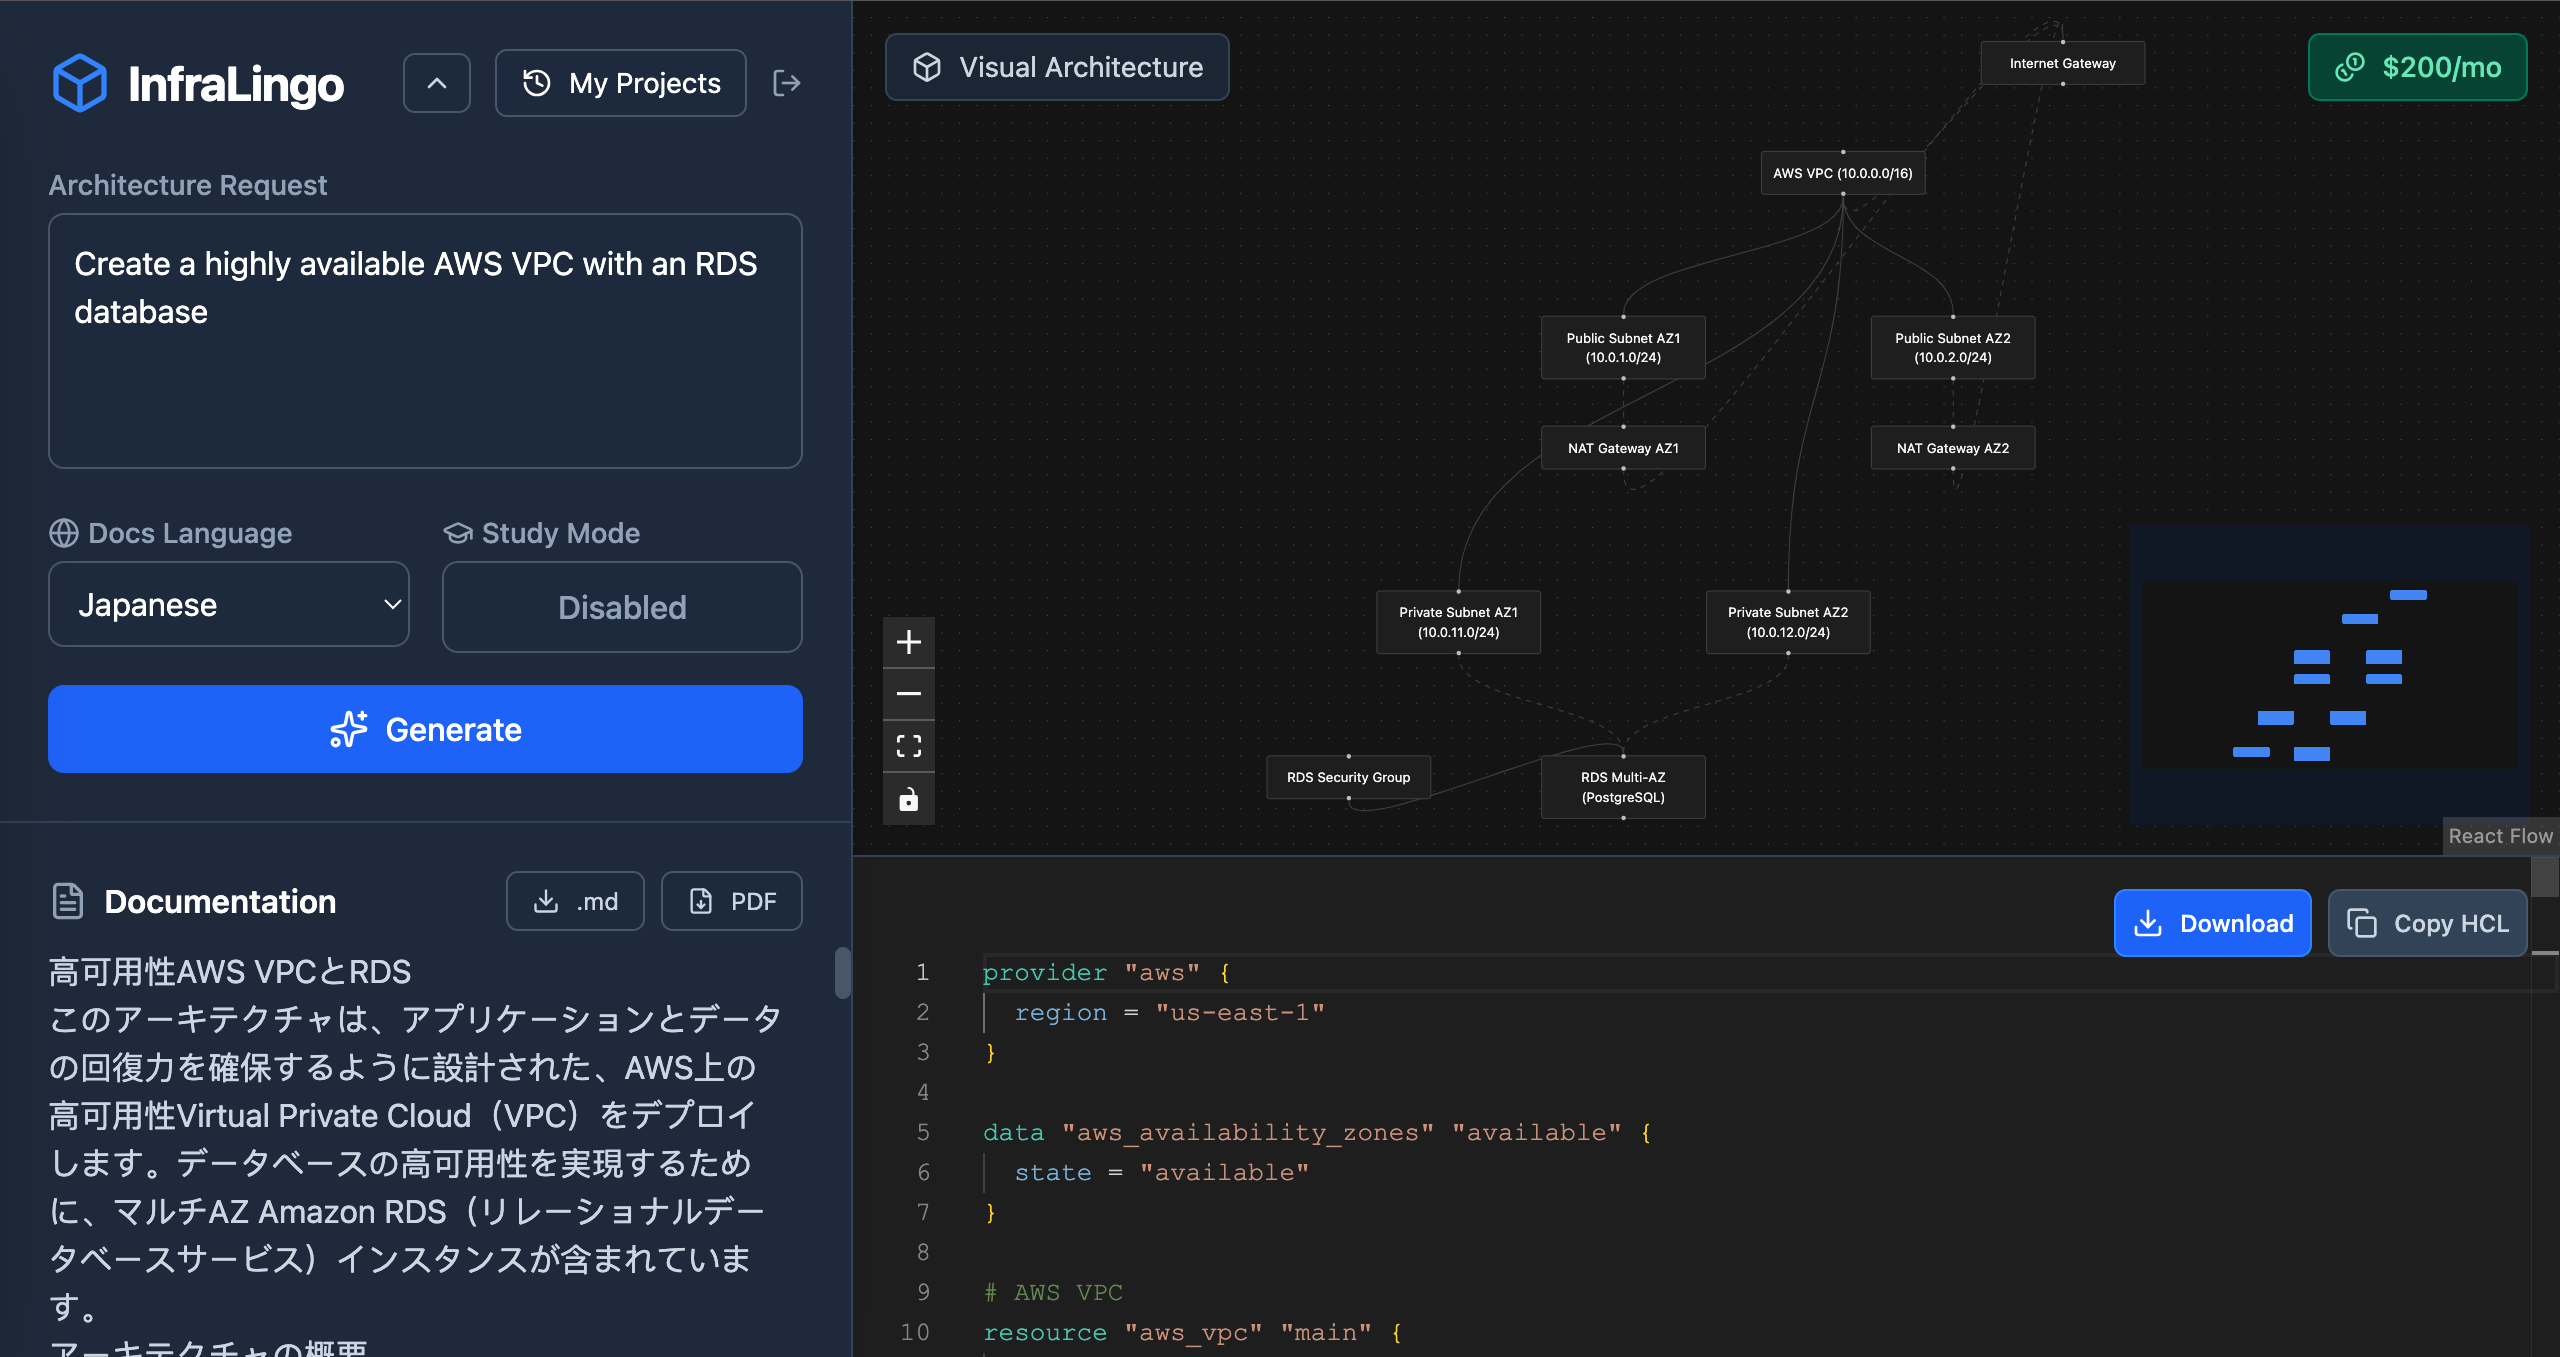
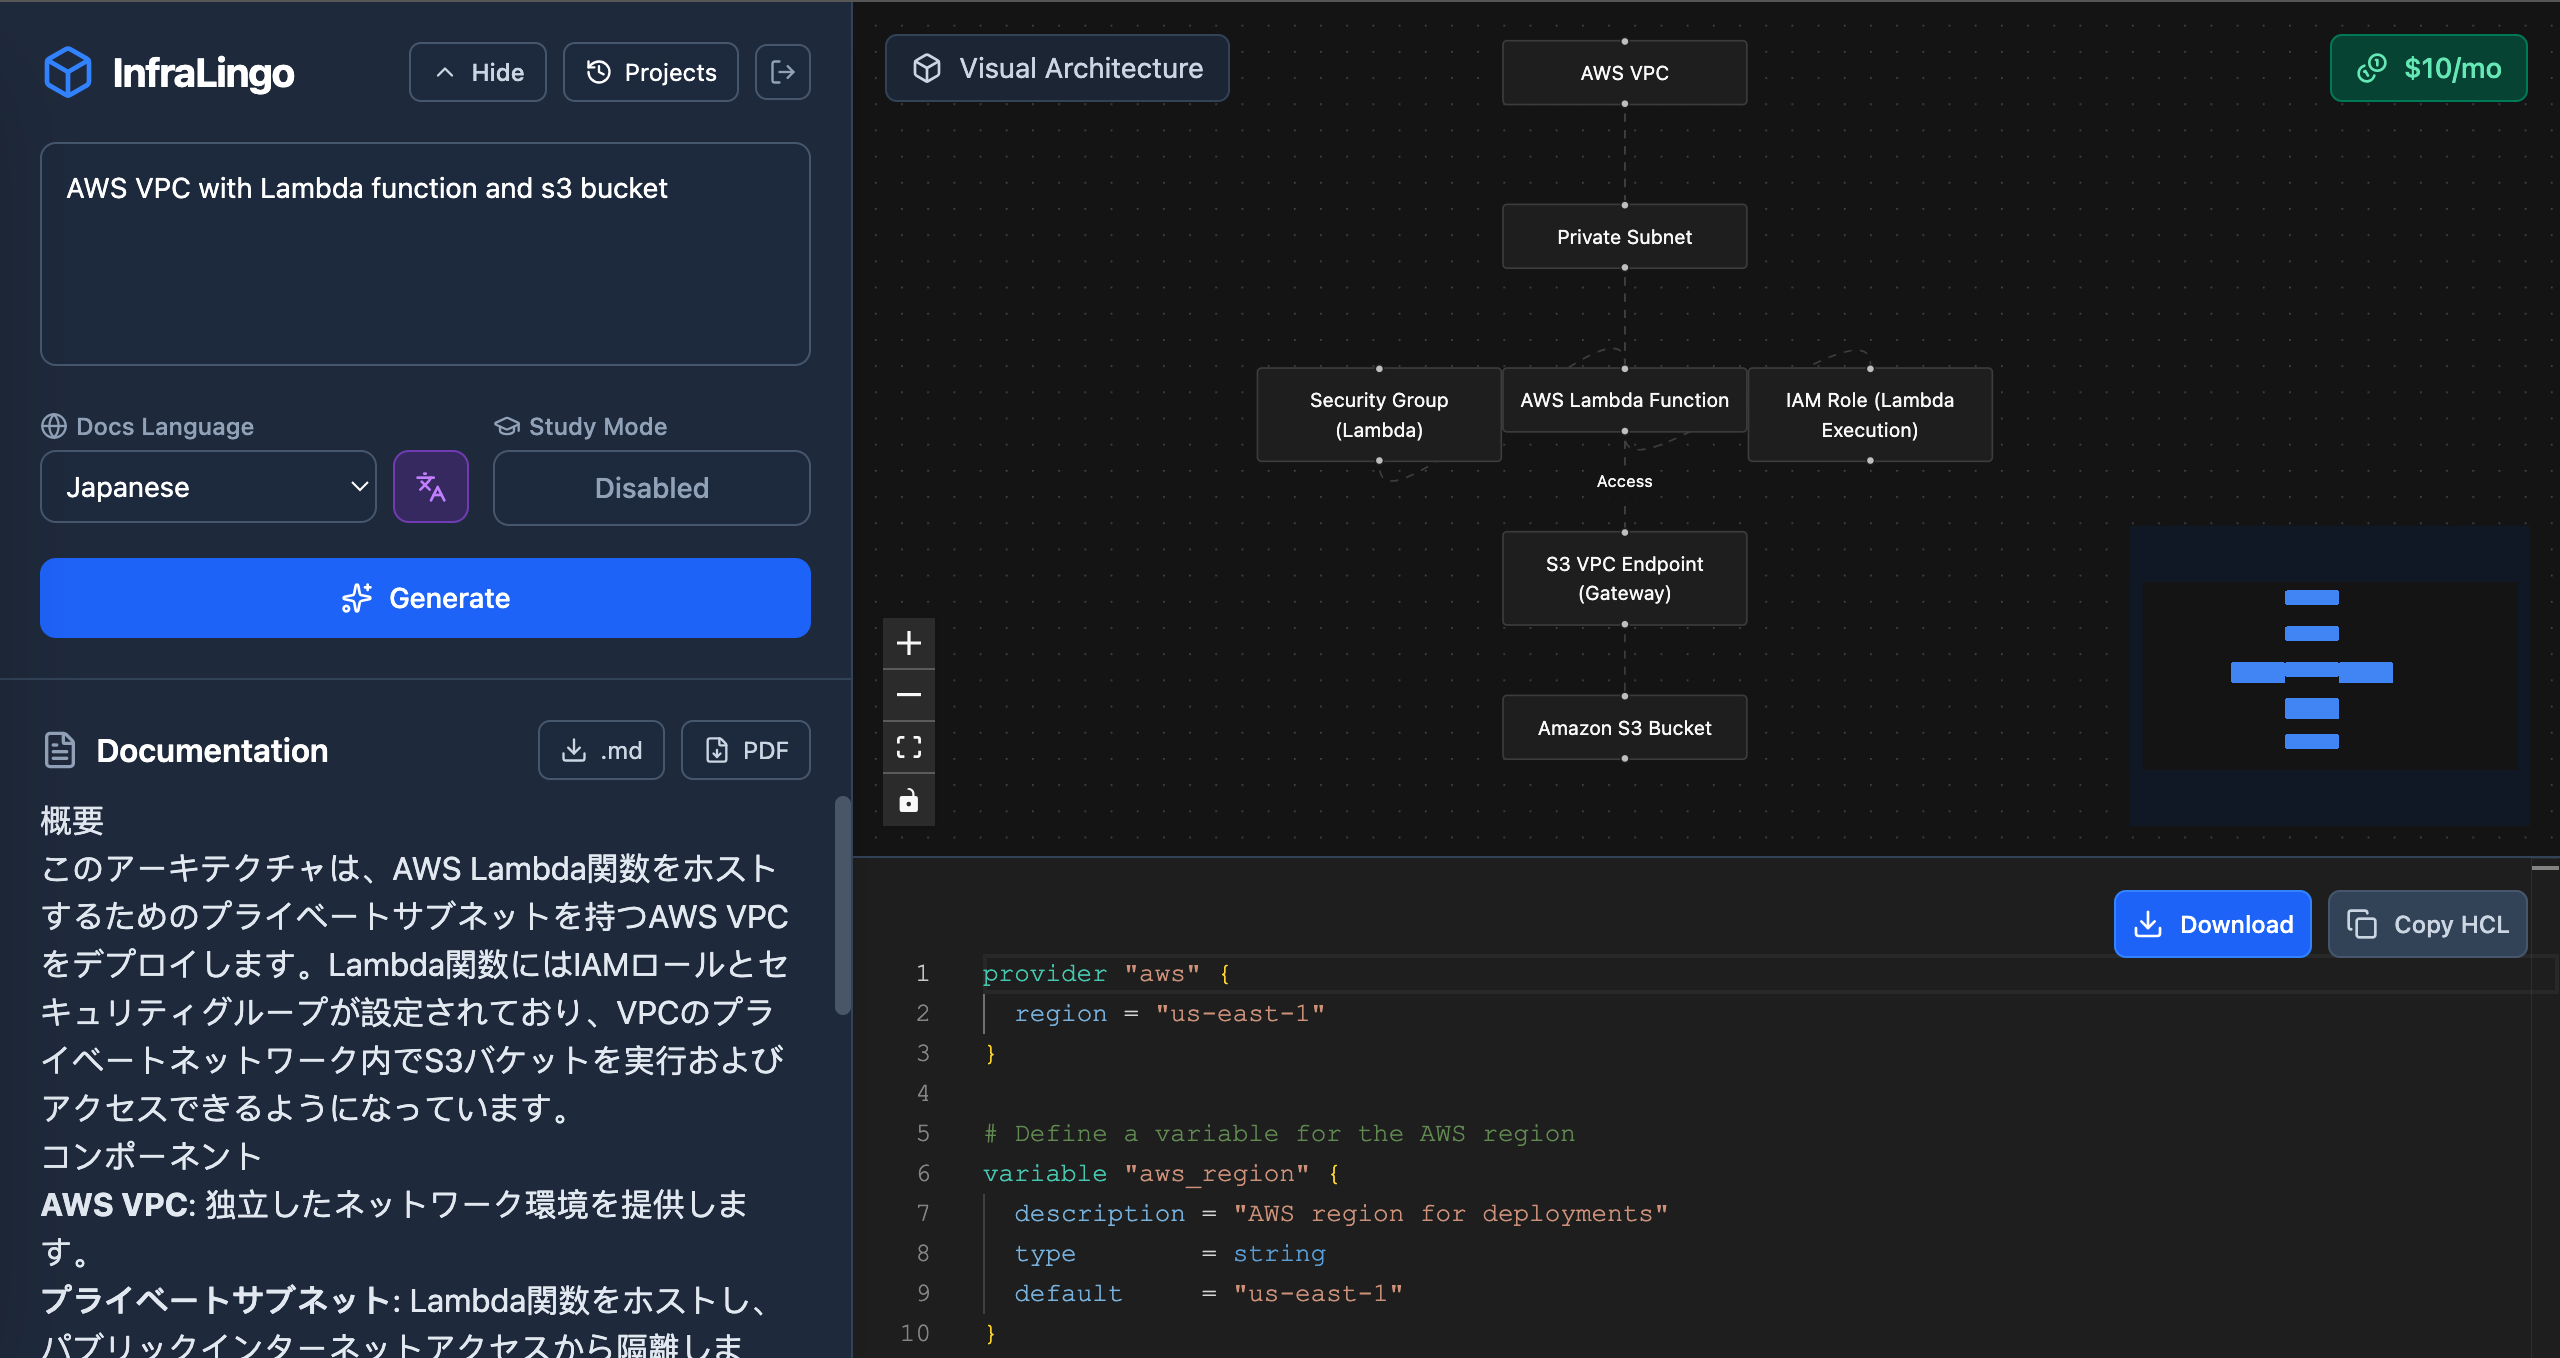
docker, ngnix and compose setup

diff --git a/frontend/src/store/useAppStore.ts b/frontend/src/store/useAppStore.ts
@@ -136,7 +136,7 @@ export const useAppStore = create<AppState>((set, get) => ({
     try {
       const headers = token ? { Authorization: `Bearer ${token}` } : {};
 
-      const response = await axios.post('http://localhost:5000/api/generate', 
+      const response = await axios.post('/api/generate', 
         { prompt, targetLanguage, studyMode },
         { headers }
       );
@@ -188,7 +188,7 @@ export const useAppStore = create<AppState>((set, get) => ({
     try {
       const headers = token ? { Authorization: `Bearer ${token}` } : {};
       
-      const response = await axios.post('http://localhost:5000/api/generate/quiz', { 
+      const response = await axios.post('/api/generate/quiz', { 
         code: terraformCode, 
         targetLanguage,
         existingQuestions: quiz.map(q => q.question) 
@@ -222,7 +222,7 @@ export const useAppStore = create<AppState>((set, get) => ({
     set({ isTranslating: true, error: null });
 
     try {
-      const response = await axios.post('http://localhost:5000/api/generate/translate', { 
+      const response = await axios.post('/api/generate/translate', { 
         docs: localizedDocs,
         quiz: quiz,
         targetLanguage 
@@ -246,7 +246,7 @@ export const useAppStore = create<AppState>((set, get) => ({
     if (!token) return;
 
     try {
-      const response = await axios.get('http://localhost:5000/api/generate/architectures', {
+      const response = await axios.get('/api/generate/architectures', {
         headers: { Authorization: `Bearer ${token}` }
       });
       set({ history: response.data });
@@ -271,7 +271,7 @@ export const useAppStore = create<AppState>((set, get) => ({
   login: async (email, password) => {
     set({ isAuthenticating: true, authError: null });
     try {
-      const response = await axios.post('http://localhost:5000/api/auth/login', { email, password });
+      const response = await axios.post('/api/auth/login', { email, password });
       const { token, user } = response.data;
       localStorage.setItem('infralingo_token', token);
       localStorage.setItem('infralingo_user', JSON.stringify(user));
@@ -287,7 +287,7 @@ export const useAppStore = create<AppState>((set, get) => ({
   register: async (email, password) => {
     set({ isAuthenticating: true, authError: null });
     try {
-      const response = await axios.post('http://localhost:5000/api/auth/register', { email, password });
+      const response = await axios.post('/api/auth/register', { email, password });
       const { token, user } = response.data;
       localStorage.setItem('infralingo_token', token);
       localStorage.setItem('infralingo_user', JSON.stringify(user));

diff --git a/README.md b/README.md
@@ -2,7 +2,7 @@
 
 **An Intent-Based Cloud Architect and Multilingual Study Companion.**
 
-![InfraLingo UI Overview](./screenshots/app_walkthrough_1773414950123.webp)
+![InfraLingo UI Overview](./screenshots/main-ui.png)
 
 Building cloud infrastructure is hard; mastering it in a second language is even harder.
 
